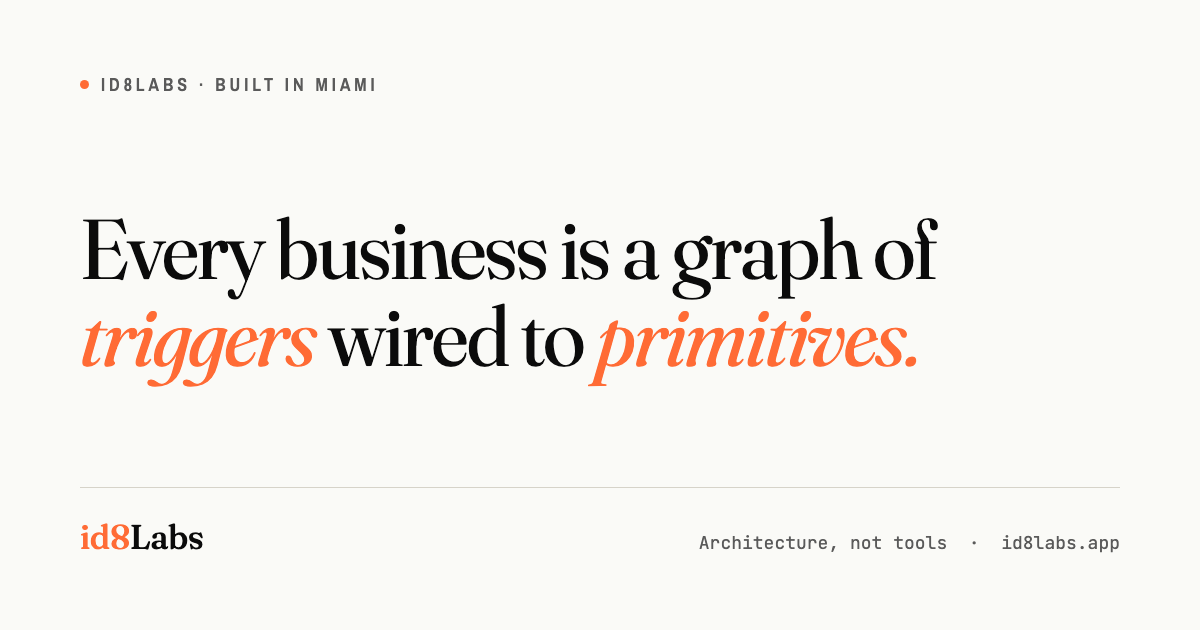
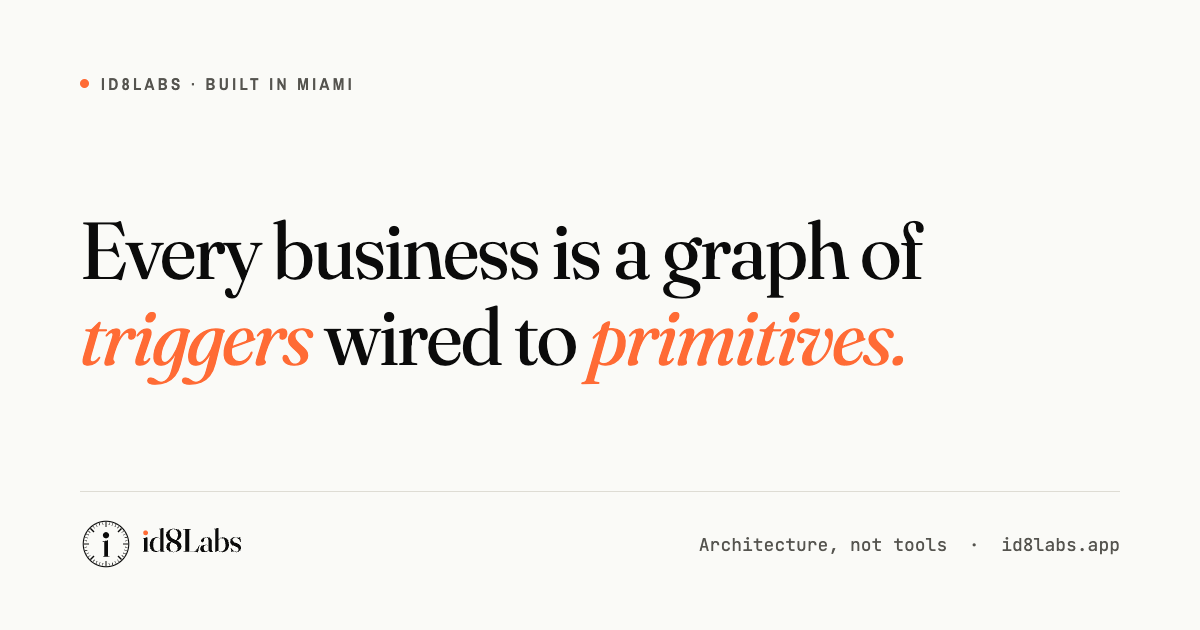
feat(brand): id8Labs instrument family v1.0 on the site
Header and sign-in use the horizontal lockup, footer the primary wordmark.
Favicon, app icons, and OG card regenerated from the locked family
(id8 repo tag id8labs-brand-v1.0) via export/site.mjs. Cache busters to
v=3. Retires public/logo.webp (the AI glow 8, no remaining references).

Claude-Session: https://claude.ai/code/session_01VbPSKC9jpca3m3EYzTsubW

diff --git a/app/layout.tsx b/app/layout.tsx
@@ -74,7 +74,7 @@ export const metadata: Metadata = {
     description: 'A one-person product lab. Many real products, a deep personal AI substrate, and the field notes of the build wave written every Friday. Proof that one cross-domain builder can ship at institutional scale.',
     images: [
       {
-        url: '/og-image.png?v=2',
+        url: '/og-image.png?v=3',
         width: 1200,
         height: 630,
         alt: 'id8Labs - An independent lab building the tools of the AI build wave.',
@@ -86,7 +86,7 @@ export const metadata: Metadata = {
     title: 'id8Labs - An Independent Lab Building the Tools of the AI Build Wave',
     description: 'A one-person product lab building the tools of the AI build wave and writing its field notes every Friday.',
     creator: '@eddiebe',
-    images: ['/og-image.png?v=2'],
+    images: ['/og-image.png?v=3'],
   },
   robots: {
     index: true,
@@ -115,8 +115,8 @@ export default function RootLayout({
       <head>
         <link rel="manifest" href="/manifest.json" />
         <meta name="theme-color" content="#FF6B35" />
-        <link rel="apple-touch-icon" href="/apple-touch-icon.png?v=2" />
-        <link rel="icon" type="image/png" sizes="32x32" href="/favicon-32.png?v=2" />
+        <link rel="apple-touch-icon" href="/apple-touch-icon.png?v=3" />
+        <link rel="icon" type="image/png" sizes="32x32" href="/favicon-32.png?v=3" />
         <meta name="apple-mobile-web-app-capable" content="yes" />
         <meta name="apple-mobile-web-app-status-bar-style" content="black-translucent" />
       </head>

diff --git a/components/Footer.tsx b/components/Footer.tsx
@@ -1,5 +1,4 @@
 import Link from 'next/link'
-import BrandName from './BrandName'
 
 const colHead =
   'mb-3 font-[family-name:var(--font-narrow)] text-[10px] font-semibold uppercase tracking-[0.2em] text-[var(--muted)]'
@@ -14,9 +13,15 @@ export default function Footer() {
         <div className="mb-8 grid grid-cols-2 gap-4 md:grid-cols-5 md:gap-8">
           {/* Colophon */}
           <div className="col-span-2 md:col-span-1">
-            <p className="mb-2 text-sm">
-              <BrandName /> <span className="font-[family-name:var(--font-mono)] text-[var(--muted)]">© 2026</span>
-            </p>
+            {/* eslint-disable-next-line @next/next/no-img-element */}
+            <img
+              src="/brand/id8labs-wordmark.svg"
+              alt="id8Labs"
+              width={72}
+              height={71}
+              className="mb-3 block h-[72px] w-auto"
+            />
+            <p className="mb-2 font-[family-name:var(--font-mono)] text-xs text-[var(--muted)]">© 2026</p>
             <p className="font-[family-name:var(--font-mono)] text-xs text-[var(--muted)]">Miami, FL</p>
             <p className="font-[family-name:var(--font-mono)] text-xs text-[var(--muted)]">EST (UTC-5)</p>
           </div>

diff --git a/components/BrandName.tsx b/components/BrandName.tsx
@@ -1,9 +1,16 @@
-export default function BrandName({ className = '' }: { className?: string }) {
+// The id8Labs horizontal lockup (dial i + wordmark, orange i dot).
+// Source of truth: id8 repo, identity/id8labs-mark/family/ (tag id8labs-brand-v1.0),
+// copied into public/brand/ by export/site.mjs. Never redraw it here.
+// viewBox is 755.48 x 240, so width follows height at about 3.15:1.
+export default function BrandName({ className = 'h-9' }: { className?: string }) {
   return (
-    <span
-      className={`font-[family-name:var(--font-serif)] font-medium tracking-tight ${className}`}
-    >
-      <span className="text-id8-orange">id8</span>Labs
-    </span>
+    // eslint-disable-next-line @next/next/no-img-element
+    <img
+      src="/brand/id8labs-lockup.svg"
+      alt="id8Labs"
+      width={113}
+      height={36}
+      className={`block w-auto ${className}`}
+    />
   )
 }

diff --git a/components/Header.tsx b/components/Header.tsx
@@ -48,9 +48,9 @@ export default function Header() {
             {/* Wordmark */}
             <Link
               href="/"
-              className="text-3xl font-medium tracking-tight hover:opacity-70 transition-opacity"
+              className="hover:opacity-70 transition-opacity"
             >
-              <BrandName />
+              <BrandName className="h-8 lg:h-9" />
             </Link>
 
             {/* Desktop nav */}

diff --git a/app/(auth)/layout.tsx b/app/(auth)/layout.tsx
@@ -11,7 +11,7 @@ export default function AuthLayout({
       <div className="mx-auto w-full px-6 md:px-9 py-10" style={{ maxWidth: '760px' }}>
         <header className="mb-16">
           <Link href="/" className="inline-block">
-            <BrandName className="text-3xl" />
+            <BrandName className="h-9" />
           </Link>
         </header>
         <div className="flex items-center justify-center">

diff --git a/public/brand/README.md b/public/brand/README.md
@@ -1,0 +1,3 @@
+# id8Labs brand files
+
+Copied from the locked family (id8 repo, identity/id8labs-mark/family/, tag id8labs-brand-v1.0) by export/site.mjs. Never edit here; rebuild from the source.
